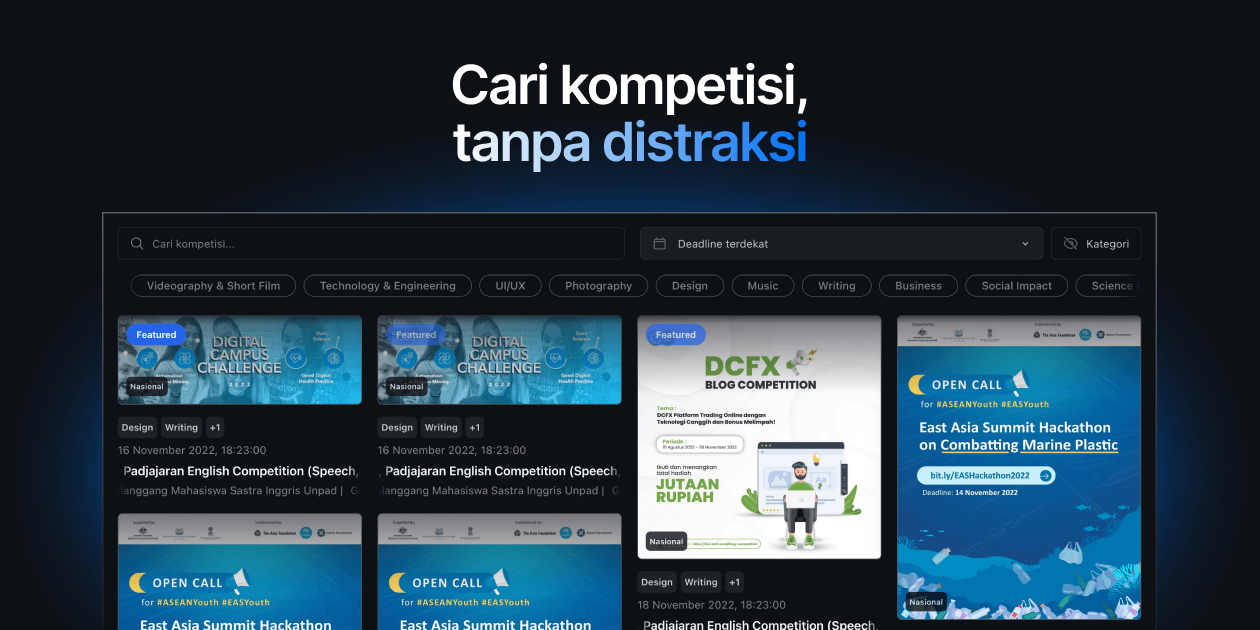
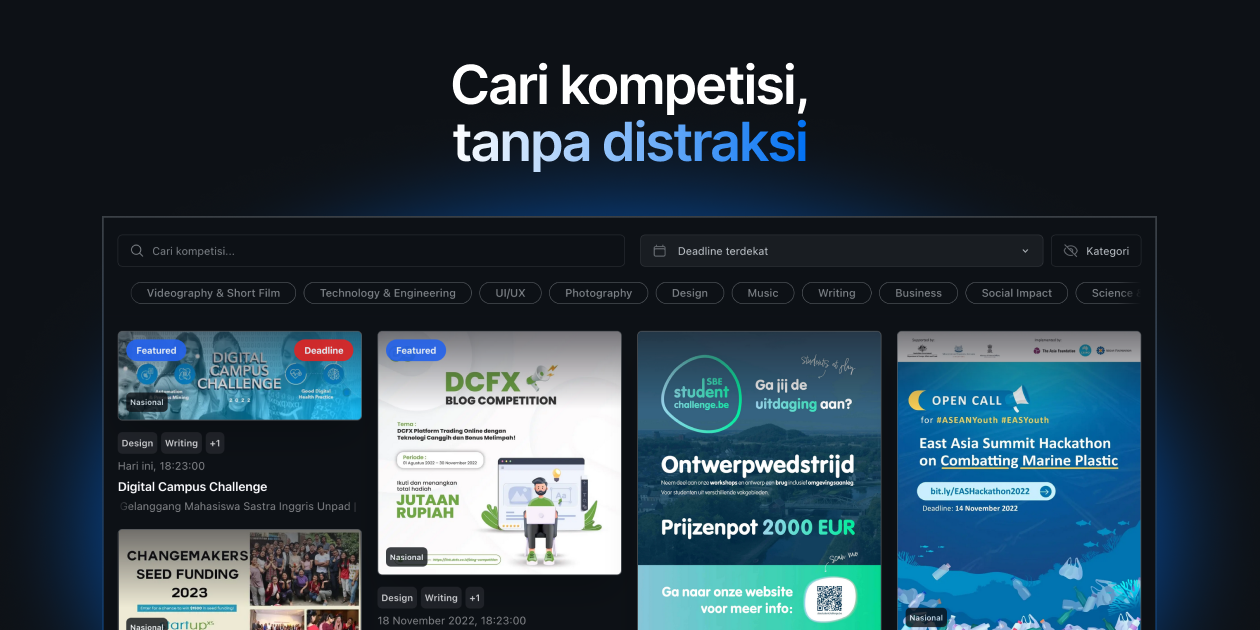
static: add variation placeholder

diff --git a/components/Competition/CompetitionSection.tsx b/components/Competition/CompetitionSection.tsx
@@ -22,9 +22,8 @@ const competition: Competition[] = [
   {
     uuid: "c1129863-59cc-47c6-861c-b72539306c24",
     id: 15,
-    title:
-      "PEC 2022, Padjajaran English Competition (Speech, Story Telling, Poetry, and Essay)",
-    eo: "Gelanggang Mahasiswa Sastra Inggris Unpad",
+    title: "SBE Student Challenge 3",
+    eo: "SBE",
     tags: ["Design", "Writing", "Business"],
     description:
       '<p>Following the pandemic, things are now improving gradually and starting to return to normal. Nonetheless, the urge to overcome the obstacle as well as the consequences of the pandemic, is real. This year, Padjajaran English Competition 2022 is finally back! With the theme “Rage against the Dying of the Light” which the goal is to encourage participants to express themselves and evaluate the issues that they face during the pandemic.</p><p></p><p></p><p>We are opening the registration for the varsity level and the high school level. Introducing all the categories:</p><p></p><p>High school level:</p><p>📚 Story Telling</p><p>🎤 Speech</p><p>Varsity level:</p><p>📜 Poetry Reading</p><p>📝 Essay</p><p></p><p>Further information and details, please visit:</p><p><a target="_blank" rel="noopener noreferrer nofollow" class="link link" href="http://gemasi.fib.unpad.ac.id">gemasi.fib.unpad.ac.id</a></p><p></p><p>What are you waiting for? Express your rage in this competition! Follow us on:</p><p>Line: @swr5937x</p><p>Instagram: <a target="_blank" rel="noopener noreferrer nofollow" class="link link" href="http://instagram.com/pec_unpad">instagram.com/pec_unpad</a></p><p>Linkedin:<a target="_blank" rel="noopener noreferrer nofollow" class="link link" href="www.linkedin.com/company/padjadjaran-English-competition/">www.linkedin.com/company/padjadjaran-English-competition/</a></p><p>Website: <a target="_blank" rel="noopener noreferrer nofollow" class="link link" href="http://gemasi.fib.unpad.ac.id">gemasi.fib.unpad.ac.id</a></p><p></p><p>#Padjadjaran #English #Competition #EnglishCompetition #InfoLomba #Lomba #Unpad #SastraI nggris #Storytelling #PoetryReading #Essay #Speech #Puisi #Resilience</p>',
@@ -33,8 +32,8 @@ const competition: Competition[] = [
     is_featured: false,
     created_at: "2022-11-16T11:56:13.39688+00:00",
     link: "google.com",
-    img: "/1.jpg",
-    deadline_date: "2022-11-16",
+    img: "https://studentcompetitions.com/wp-content/uploads/sites/135/2022/10/Affiche-2022-2023-77d0e5c109ebdd29c0c49506cf3e1170.jpg",
+    deadline_date: "2022-11-18",
     deadline_time: "18:23:00",
     slug: "/pec-2022-padjajaran-english-competition-speech-story-telling-poetry-and-essay",
     contact: "wa.me/6283826361142",
@@ -42,9 +41,8 @@ const competition: Competition[] = [
   {
     uuid: "c1129863-59cc-47c6-861c-b72539306c24",
     id: 15,
-    title:
-      "PEC 2022, Padjajaran English Competition (Speech, Story Telling, Poetry, and Essay)",
-    eo: "Gelanggang Mahasiswa Sastra Inggris Unpad",
+    title: "DCFX BLOG COMPETITION",
+    eo: "DCFX",
     tags: ["Design", "Writing", "Business"],
     description:
       '<p>Following the pandemic, things are now improving gradually and starting to return to normal. Nonetheless, the urge to overcome the obstacle as well as the consequences of the pandemic, is real. This year, Padjajaran English Competition 2022 is finally back! With the theme “Rage against the Dying of the Light” which the goal is to encourage participants to express themselves and evaluate the issues that they face during the pandemic.</p><p></p><p></p><p>We are opening the registration for the varsity level and the high school level. Introducing all the categories:</p><p></p><p>High school level:</p><p>📚 Story Telling</p><p>🎤 Speech</p><p>Varsity level:</p><p>📜 Poetry Reading</p><p>📝 Essay</p><p></p><p>Further information and details, please visit:</p><p><a target="_blank" rel="noopener noreferrer nofollow" class="link link" href="http://gemasi.fib.unpad.ac.id">gemasi.fib.unpad.ac.id</a></p><p></p><p>What are you waiting for? Express your rage in this competition! Follow us on:</p><p>Line: @swr5937x</p><p>Instagram: <a target="_blank" rel="noopener noreferrer nofollow" class="link link" href="http://instagram.com/pec_unpad">instagram.com/pec_unpad</a></p><p>Linkedin:<a target="_blank" rel="noopener noreferrer nofollow" class="link link" href="www.linkedin.com/company/padjadjaran-English-competition/">www.linkedin.com/company/padjadjaran-English-competition/</a></p><p>Website: <a target="_blank" rel="noopener noreferrer nofollow" class="link link" href="http://gemasi.fib.unpad.ac.id">gemasi.fib.unpad.ac.id</a></p><p></p><p>#Padjadjaran #English #Competition #EnglishCompetition #InfoLomba #Lomba #Unpad #SastraI nggris #Storytelling #PoetryReading #Essay #Speech #Puisi #Resilience</p>',
@@ -62,9 +60,8 @@ const competition: Competition[] = [
   {
     uuid: "c1129863-59cc-47c6-861c-b72539306c24",
     id: 15,
-    title:
-      "TEST 2022, Padjajaran English Competition (Speech, Story Telling, Poetry, and Essay)",
-    eo: "Gelanggang Mahasiswa Sastra Inggris Unpad",
+    title: "East Asia Summit Hackathon on Combatting Marine Plastic",
+    eo: "ASEAN",
     tags: ["Design", "Writing", "Business"],
     description:
       '<p>Following the pandemic, things are now improving gradually and starting to return to normal. Nonetheless, the urge to overcome the obstacle as well as the consequences of the pandemic, is real. This year, Padjajaran English Competition 2022 is finally back! With the theme “Rage against the Dying of the Light” which the goal is to encourage participants to express themselves and evaluate the issues that they face during the pandemic.</p><p></p><p></p><p>We are opening the registration for the varsity level and the high school level. Introducing all the categories:</p><p></p><p>High school level:</p><p>📚 Story Telling</p><p>🎤 Speech</p><p>Varsity level:</p><p>📜 Poetry Reading</p><p>📝 Essay</p><p></p><p>Further information and details, please visit:</p><p><a target="_blank" rel="noopener noreferrer nofollow" class="link link" href="http://gemasi.fib.unpad.ac.id">gemasi.fib.unpad.ac.id</a></p><p></p><p>What are you waiting for? Express your rage in this competition! Follow us on:</p><p>Line: @swr5937x</p><p>Instagram: <a target="_blank" rel="noopener noreferrer nofollow" class="link link" href="http://instagram.com/pec_unpad">instagram.com/pec_unpad</a></p><p>Linkedin:<a target="_blank" rel="noopener noreferrer nofollow" class="link link" href="www.linkedin.com/company/padjadjaran-English-competition/">www.linkedin.com/company/padjadjaran-English-competition/</a></p><p>Website: <a target="_blank" rel="noopener noreferrer nofollow" class="link link" href="http://gemasi.fib.unpad.ac.id">gemasi.fib.unpad.ac.id</a></p><p></p><p>#Padjadjaran #English #Competition #EnglishCompetition #InfoLomba #Lomba #Unpad #SastraI nggris #Storytelling #PoetryReading #Essay #Speech #Puisi #Resilience</p>',
@@ -82,8 +79,7 @@ const competition: Competition[] = [
   {
     uuid: "c1129863-59cc-47c6-861c-b72539306c24",
     id: 15,
-    title:
-      "PEC 2022, Padjajaran English Competition (Speech, Story Telling, Poetry, and Essay)",
+    title: "Digital Campus Challenge",
     eo: "Gelanggang Mahasiswa Sastra Inggris Unpad",
     tags: ["Design", "Writing", "Business"],
     description:
@@ -94,7 +90,7 @@ const competition: Competition[] = [
     created_at: "2022-11-14T11:56:13.39688+00:00",
     link: "google.com",
     img: "/3.jpeg",
-    deadline_date: "2022-11-16",
+    deadline_date: "2022-11-17",
     deadline_time: "18:23:00",
     slug: "/pec-2022-padjajaran-english-competition-speech-story-telling-poetry-and-essay",
     contact: "wa.me/6283826361142",
@@ -102,59 +98,18 @@ const competition: Competition[] = [
   {
     uuid: "c1129863-59cc-47c6-861c-b72539306c24",
     id: 15,
-    title:
-      "PEC 2022, Padjajaran English Competition (Speech, Story Telling, Poetry, and Essay)",
-    eo: "Gelanggang Mahasiswa Sastra Inggris Unpad",
-    tags: ["Design", "Writing", "Business"],
-    description:
-      '<p>Following the pandemic, things are now improving gradually and starting to return to normal. Nonetheless, the urge to overcome the obstacle as well as the consequences of the pandemic, is real. This year, Padjajaran English Competition 2022 is finally back! With the theme “Rage against the Dying of the Light” which the goal is to encourage participants to express themselves and evaluate the issues that they face during the pandemic.</p><p></p><p></p><p>We are opening the registration for the varsity level and the high school level. Introducing all the categories:</p><p></p><p>High school level:</p><p>📚 Story Telling</p><p>🎤 Speech</p><p>Varsity level:</p><p>📜 Poetry Reading</p><p>📝 Essay</p><p></p><p>Further information and details, please visit:</p><p><a target="_blank" rel="noopener noreferrer nofollow" class="link link" href="http://gemasi.fib.unpad.ac.id">gemasi.fib.unpad.ac.id</a></p><p></p><p>What are you waiting for? Express your rage in this competition! Follow us on:</p><p>Line: @swr5937x</p><p>Instagram: <a target="_blank" rel="noopener noreferrer nofollow" class="link link" href="http://instagram.com/pec_unpad">instagram.com/pec_unpad</a></p><p>Linkedin:<a target="_blank" rel="noopener noreferrer nofollow" class="link link" href="www.linkedin.com/company/padjadjaran-English-competition/">www.linkedin.com/company/padjadjaran-English-competition/</a></p><p>Website: <a target="_blank" rel="noopener noreferrer nofollow" class="link link" href="http://gemasi.fib.unpad.ac.id">gemasi.fib.unpad.ac.id</a></p><p></p><p>#Padjadjaran #English #Competition #EnglishCompetition #InfoLomba #Lomba #Unpad #SastraI nggris #Storytelling #PoetryReading #Essay #Speech #Puisi #Resilience</p>',
-    registration: "Gratis",
-    level: "Nasional",
-    is_featured: true,
-    created_at: "2022-11-14T11:56:13.39688+00:00",
-    link: "google.com",
-    img: "/3.jpeg",
-    deadline_date: "2022-11-16",
-    deadline_time: "18:23:00",
-    slug: "/pec-2022-padjajaran-english-competition-speech-story-telling-poetry-and-essay",
-    contact: "wa.me/6283826361142",
-  },
-  {
-    uuid: "c1129863-59cc-47c6-861c-b72539306c24",
-    id: 15,
-    title:
-      "TEST 2022, Padjajaran English Competition (Speech, Story Telling, Poetry, and Essay)",
-    eo: "Gelanggang Mahasiswa Sastra Inggris Unpad",
+    title: "ChangeMakers Seed Funding 2023",
+    eo: "StartupXS",
     tags: ["Design", "Writing", "Business"],
     description:
       '<p>Following the pandemic, things are now improving gradually and starting to return to normal. Nonetheless, the urge to overcome the obstacle as well as the consequences of the pandemic, is real. This year, Padjajaran English Competition 2022 is finally back! With the theme “Rage against the Dying of the Light” which the goal is to encourage participants to express themselves and evaluate the issues that they face during the pandemic.</p><p></p><p></p><p>We are opening the registration for the varsity level and the high school level. Introducing all the categories:</p><p></p><p>High school level:</p><p>📚 Story Telling</p><p>🎤 Speech</p><p>Varsity level:</p><p>📜 Poetry Reading</p><p>📝 Essay</p><p></p><p>Further information and details, please visit:</p><p><a target="_blank" rel="noopener noreferrer nofollow" class="link link" href="http://gemasi.fib.unpad.ac.id">gemasi.fib.unpad.ac.id</a></p><p></p><p>What are you waiting for? Express your rage in this competition! Follow us on:</p><p>Line: @swr5937x</p><p>Instagram: <a target="_blank" rel="noopener noreferrer nofollow" class="link link" href="http://instagram.com/pec_unpad">instagram.com/pec_unpad</a></p><p>Linkedin:<a target="_blank" rel="noopener noreferrer nofollow" class="link link" href="www.linkedin.com/company/padjadjaran-English-competition/">www.linkedin.com/company/padjadjaran-English-competition/</a></p><p>Website: <a target="_blank" rel="noopener noreferrer nofollow" class="link link" href="http://gemasi.fib.unpad.ac.id">gemasi.fib.unpad.ac.id</a></p><p></p><p>#Padjadjaran #English #Competition #EnglishCompetition #InfoLomba #Lomba #Unpad #SastraI nggris #Storytelling #PoetryReading #Essay #Speech #Puisi #Resilience</p>',
     registration: "Gratis",
     level: "Nasional",
     is_featured: false,
-    created_at: "2022-11-16T11:56:13.39688+00:00",
+    created_at: "2022-11-17T11:56:13.39688+00:00",
     link: "google.com",
-    img: "/1.jpg",
+    img: "https://studentcompetitions.com/wp-content/uploads/sites/135/2022/10/2-86626816e6603347dbd5c152c4917027.jpg",
     deadline_date: "2022-11-20",
-    deadline_time: "18:23:00",
-    slug: "/pec-2022-padjajaran-english-competition-speech-story-telling-poetry-and-essay",
-    contact: "wa.me/6283826361142",
-  },
-  {
-    uuid: "c1129863-59cc-47c6-861c-b72539306c24",
-    id: 15,
-    title:
-      "PEC 2022, Padjajaran English Competition (Speech, Story Telling, Poetry, and Essay)",
-    eo: "Gelanggang Mahasiswa Sastra Inggris Unpad",
-    tags: ["Design", "Writing", "Business"],
-    description:
-      '<p>Following the pandemic, things are now improving gradually and starting to return to normal. Nonetheless, the urge to overcome the obstacle as well as the consequences of the pandemic, is real. This year, Padjajaran English Competition 2022 is finally back! With the theme “Rage against the Dying of the Light” which the goal is to encourage participants to express themselves and evaluate the issues that they face during the pandemic.</p><p></p><p></p><p>We are opening the registration for the varsity level and the high school level. Introducing all the categories:</p><p></p><p>High school level:</p><p>📚 Story Telling</p><p>🎤 Speech</p><p>Varsity level:</p><p>📜 Poetry Reading</p><p>📝 Essay</p><p></p><p>Further information and details, please visit:</p><p><a target="_blank" rel="noopener noreferrer nofollow" class="link link" href="http://gemasi.fib.unpad.ac.id">gemasi.fib.unpad.ac.id</a></p><p></p><p>What are you waiting for? Express your rage in this competition! Follow us on:</p><p>Line: @swr5937x</p><p>Instagram: <a target="_blank" rel="noopener noreferrer nofollow" class="link link" href="http://instagram.com/pec_unpad">instagram.com/pec_unpad</a></p><p>Linkedin:<a target="_blank" rel="noopener noreferrer nofollow" class="link link" href="www.linkedin.com/company/padjadjaran-English-competition/">www.linkedin.com/company/padjadjaran-English-competition/</a></p><p>Website: <a target="_blank" rel="noopener noreferrer nofollow" class="link link" href="http://gemasi.fib.unpad.ac.id">gemasi.fib.unpad.ac.id</a></p><p></p><p>#Padjadjaran #English #Competition #EnglishCompetition #InfoLomba #Lomba #Unpad #SastraI nggris #Storytelling #PoetryReading #Essay #Speech #Puisi #Resilience</p>',
-    registration: "Gratis",
-    level: "Nasional",
-    is_featured: false,
-    created_at: "2022-11-16T11:56:13.39688+00:00",
-    link: "google.com",
-    img: "/1.jpg",
-    deadline_date: "2022-11-16",
     deadline_time: "18:23:00",
     slug: "/pec-2022-padjajaran-english-competition-speech-story-telling-poetry-and-essay",
     contact: "wa.me/6283826361142",

diff --git a/next.config.js b/next.config.js
@@ -3,7 +3,10 @@ const nextConfig = {
   reactStrictMode: true,
   swcMinify: true,
   images: {
-    domains: [`${process.env.NEXT_PUBLIC_SUPABASE_PROJECT_ID}.supabase.in`], // Add your CDN image url here
+    domains: [
+      `${process.env.NEXT_PUBLIC_SUPABASE_PROJECT_ID}.supabase.in`,
+      "studentcompetitions.com",
+    ], // Add your CDN image url here
   },
 }
 
